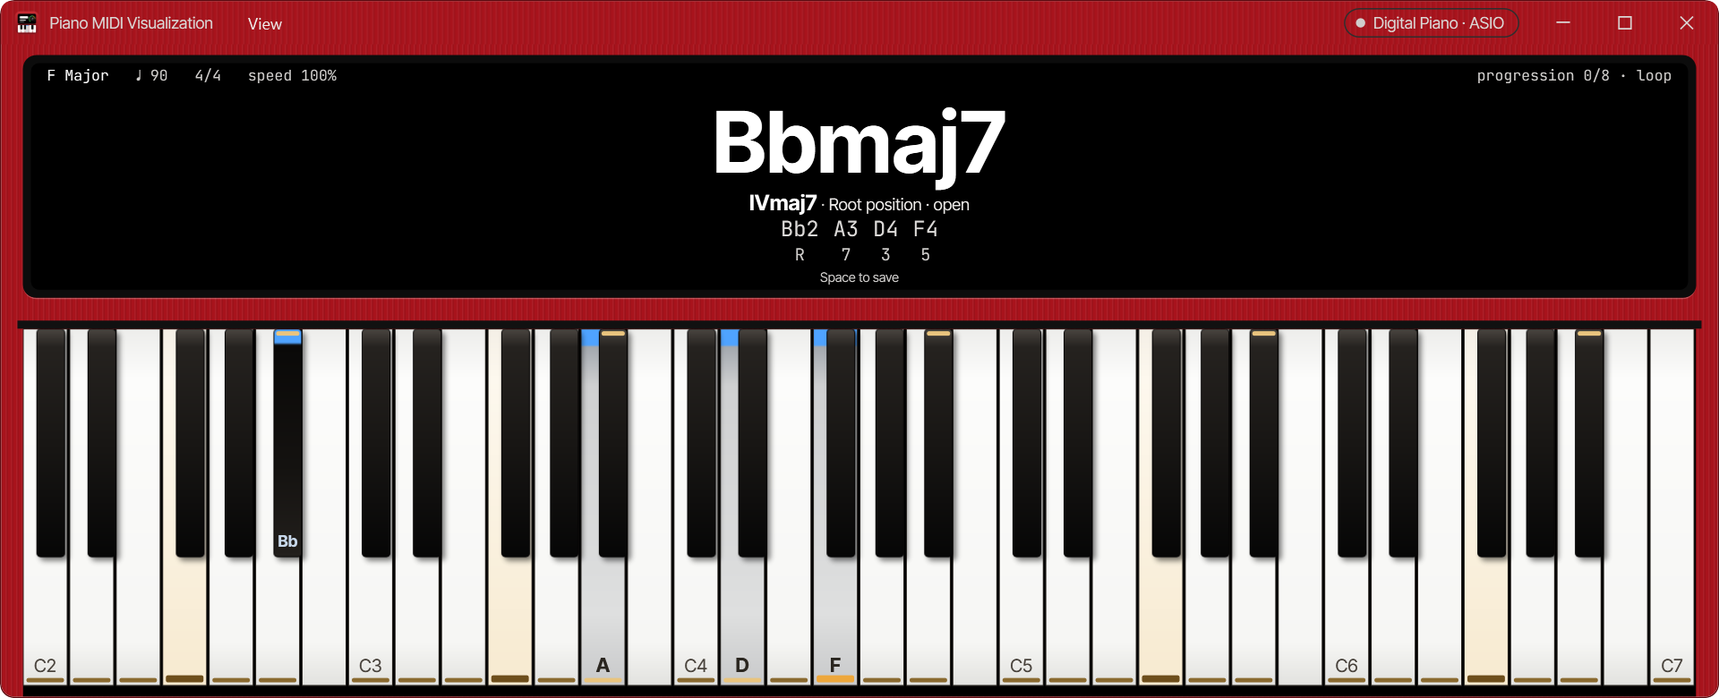
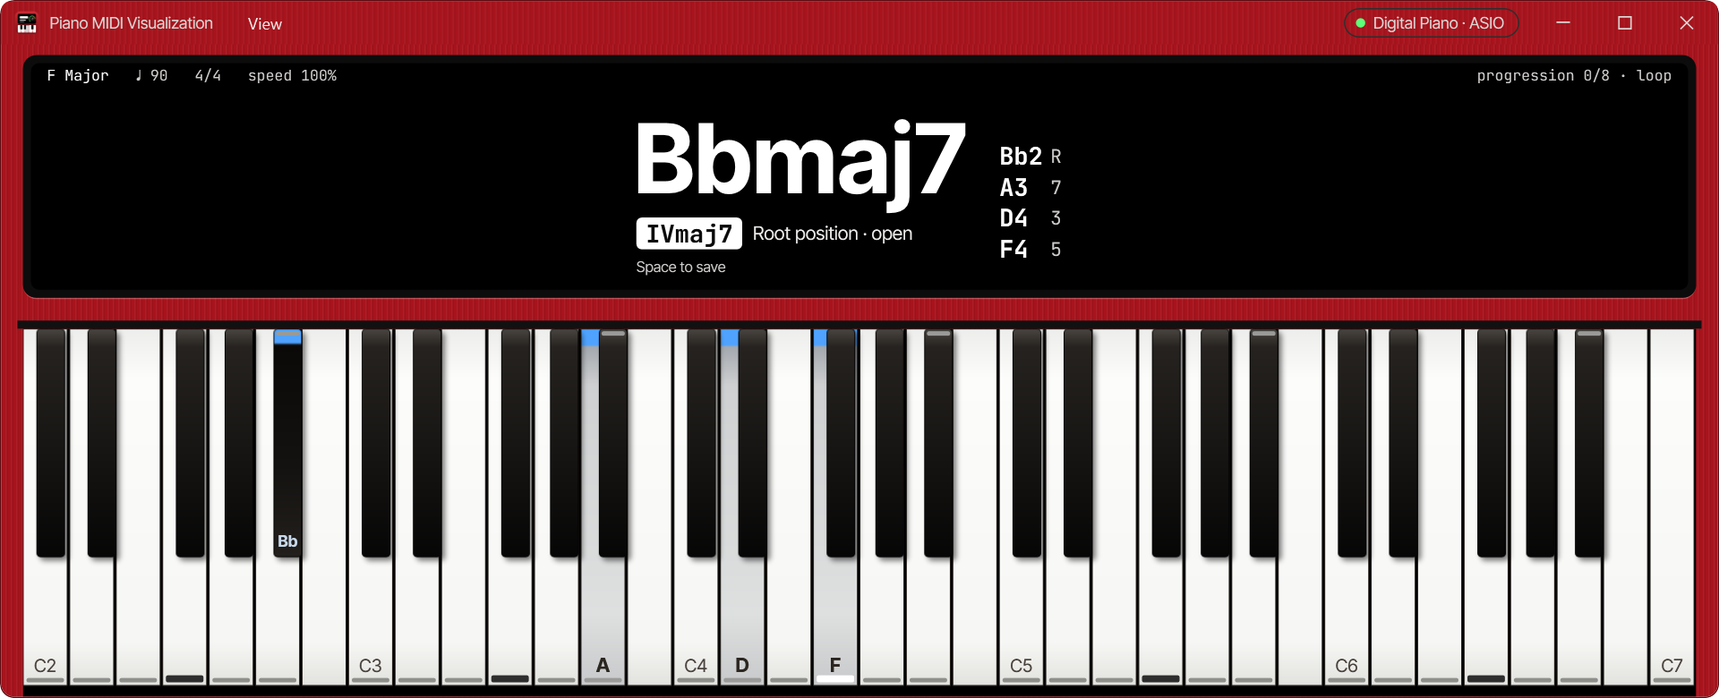
Match the K comp in the readout, circle and keys: no amber on the keys
- Keys are black and white only: in-key and tonic roles keep their lips and edges, now in
  neutral greys (the tonic's lip near-black and thicker), with no tinted keytops.
- The circle follows the comp: a white selected wedge with ink, grey related keys and a
  white root outline.
- The readout follows the comp: the numeral in a white pill, the held notes listed beside
  the chord name, four to a column so the height never changes.
- The 7ths soft key is outlined in white while on, and the status chip's dot is K's green
  status LED.

diff --git a/piano/src/PianoMidiVisualizationApp/MainWindow.xaml b/piano/src/PianoMidiVisualizationApp/MainWindow.xaml
@@ -508,69 +508,74 @@
                          chord name's top. -->
                     <Viewbox Grid.Column="1" Stretch="Uniform" StretchDirection="DownOnly"
                              VerticalAlignment="Center" HorizontalAlignment="Center" Margin="24,12">
-                    <StackPanel>
-                        <!-- Line boxes are trimmed to pay for the voicing line: the stack has to fit
-                             the 159px row at 900x420, and the 140px MinHeight row an open recorder,
-                             log or chat squeezes it to without shaving the chord name. The name's own
-                             85px line leaves ~20px empty above the tallest glyph; at 70 a slash or
-                             parenthesis still clears the voicing text by the ~4px it used to clear
-                             the notes line by. Notes and intervals keep ~1px over their natural line. -->
+                    <!-- K's readout: the chord name with its numeral and voicing under it, and
+                         beside them the held notes as a list, each with its interval. -->
+                    <StackPanel Orientation="Horizontal">
+                    <StackPanel VerticalAlignment="Center">
                         <TextBlock Text="{Binding Analysis.Name}" Style="{StaticResource Style.Readout.Latch}"
-                                   FontSize="{StaticResource Size.Readout.Name}" FontWeight="Black"
+                                   FontSize="{StaticResource Size.Readout.Name}" FontWeight="ExtraBold"
                                    Foreground="{StaticResource Brush.Text.Primary}"
                                    LineStackingStrategy="BlockLineHeight" LineHeight="70"
-                                   MinHeight="70" TextAlignment="Center"/>
-                        <!-- The Roman numeral leads the voicing line: "V65 · 1st inversion · close".
-                             There is no height left for a line of its own, so the numeral shares
-                             this one. The block line height pins it at 19px however large the
-                             numeral's run is, and one TextBlock keeps every run on one baseline.
-                             The runs abut with no whitespace between tags, which would render as
-                             a stray leading space and nudge the voicing off-centre with no key. -->
-                        <TextBlock DataContext="{Binding Analysis}" Style="{StaticResource Style.Readout.Latch}"
-                                   FontSize="{StaticResource Size.Readout.Voicing}"
-                                   Foreground="{StaticResource Brush.Text.Secondary}"
-                                   LineStackingStrategy="BlockLineHeight" LineHeight="19"
-                                   MinHeight="19" Margin="0,3,0,0" TextAlignment="Center"><Run
-                                       Text="{Binding Function, Mode=OneWay}"
-                                       FontSize="{StaticResource Size.Readout.Function}" FontWeight="SemiBold"
-                                       Style="{StaticResource Style.Function.Numeral}"/><Run
+                                   MinHeight="70" MinWidth="180"/>
+                        <!-- The numeral in a white pill, then its kind and the voicing:
+                             "[V65] 1st inversion · drop 2". The row keeps its height empty. -->
+                        <StackPanel Orientation="Horizontal" DataContext="{Binding Analysis}" MinHeight="22"
+                                    Margin="2,4,0,0" Style="{StaticResource Style.Readout.Latch}">
+                            <Border CornerRadius="4" Padding="7,0" Margin="0,0,8,0" VerticalAlignment="Center"
+                                    Background="{StaticResource Brush.Readout.Pill}">
+                                <Border.Style>
+                                    <Style TargetType="Border">
+                                        <Style.Triggers>
+                                            <DataTrigger Binding="{Binding Function}" Value="">
+                                                <Setter Property="Visibility" Value="Collapsed"/>
+                                            </DataTrigger>
+                                        </Style.Triggers>
+                                    </Style>
+                                </Border.Style>
+                                <TextBlock Text="{Binding Function}" FontFamily="{StaticResource Font.Data}"
+                                           FontSize="{StaticResource Size.Readout.Function}" FontWeight="Bold"
+                                           Foreground="{StaticResource Brush.Readout.PillInk}"
+                                           Style="{StaticResource Style.Function.NumeralPill}"/>
+                            </Border>
+                            <TextBlock FontSize="{StaticResource Size.Readout.Voicing}" VerticalAlignment="Center"
+                                       Foreground="{StaticResource Brush.Text.Secondary}"><Run
                                        FontSize="11" Style="{StaticResource Style.Function.Tag}"/><Run
-                                       Style="{StaticResource Style.Function.VoicingSeparator}"/><Run
+                                       Style="{StaticResource Style.Function.TagGap}"/><Run
                                        Text="{Binding Voicing, Mode=OneWay}"/></TextBlock>
-                        <!-- The notes, each with its interval above the root centred under it. One
-                             column per note rather than two padded lines: the lines are set at
-                             different sizes, so padding alone let the intervals drift off their
-                             notes. The MinHeight is the two line boxes, 22 and 18. -->
-                        <ItemsControl ItemsSource="{Binding Analysis.Columns}" Focusable="False"
-                                      Style="{StaticResource Style.Readout.Latch}"
-                                      MinHeight="40" HorizontalAlignment="Center">
-                            <ItemsControl.ItemsPanel>
-                                <ItemsPanelTemplate>
-                                    <StackPanel Orientation="Horizontal"/>
-                                </ItemsPanelTemplate>
-                            </ItemsControl.ItemsPanel>
-                            <ItemsControl.ItemTemplate>
-                                <DataTemplate>
-                                    <StackPanel Margin="6,0">
-                                        <TextBlock Text="{Binding Note}" FontFamily="{StaticResource Font.Data}"
-                                                   FontSize="{StaticResource Size.Readout.Notes}"
-                                                   Foreground="{StaticResource Brush.Text.Tertiary}"
-                                                   MinHeight="22" TextAlignment="Center"/>
-                                        <TextBlock Text="{Binding Interval}" FontFamily="{StaticResource Font.Data}"
-                                                   FontSize="{StaticResource Size.Readout.Intervals}"
-                                                   Foreground="{StaticResource Brush.Text.Muted}"
-                                                   MinHeight="18" TextAlignment="Center"/>
-                                    </StackPanel>
-                                </DataTemplate>
-                            </ItemsControl.ItemTemplate>
-                        </ItemsControl>
+                        </StackPanel>
                         <!-- That the chord was saved ("Saved · 3/8"), or can't be ("Progression
                              full"). How to save it shows only until the first chord is saved. -->
-                        <TextBlock Text="{Binding SaveHint}" FontSize="11" Margin="0,4,0,0"
-                                   Foreground="{StaticResource Brush.Text.Hint}"
-                                   MinHeight="18" TextAlignment="Center"
+                        <TextBlock Text="{Binding SaveHint}" FontSize="11" Margin="2,6,0,0"
+                                   Foreground="{StaticResource Brush.Text.Hint}" MinHeight="16"
                                    Visibility="{Binding Analysis.Name,
                                                 Converter={StaticResource StringToVisibilityConverter}}"/>
+                    </StackPanel>
+                    <!-- The held notes, lowest first, each with its interval above the root.
+                         Four to a column, wrapping into a second for bigger chords, so the
+                         readout's height never changes with the chord. -->
+                    <ItemsControl ItemsSource="{Binding Analysis.Columns}" Focusable="False"
+                                  Style="{StaticResource Style.Readout.Latch}"
+                                  Margin="24,6,0,0" VerticalAlignment="Center" MinWidth="64">
+                        <ItemsControl.ItemsPanel>
+                            <ItemsPanelTemplate>
+                                <WrapPanel Orientation="Vertical" Height="92"/>
+                            </ItemsPanelTemplate>
+                        </ItemsControl.ItemsPanel>
+                        <ItemsControl.ItemTemplate>
+                            <DataTemplate>
+                                <StackPanel Orientation="Horizontal" Height="23" Margin="0,0,16,0">
+                                    <TextBlock Text="{Binding Note}" FontFamily="{StaticResource Font.Data}"
+                                               FontSize="{StaticResource Size.Readout.Notes}" FontWeight="Bold"
+                                               Foreground="{StaticResource Brush.Text.Primary}"
+                                               MinWidth="38" VerticalAlignment="Center"/>
+                                    <TextBlock Text="{Binding Interval}" FontFamily="{StaticResource Font.Data}"
+                                               FontSize="{StaticResource Size.Readout.Intervals}"
+                                               Foreground="{StaticResource Brush.Text.Muted}"
+                                               VerticalAlignment="Center"/>
+                                </StackPanel>
+                            </DataTemplate>
+                        </ItemsControl.ItemTemplate>
+                    </ItemsControl>
                     </StackPanel>
                     </Viewbox>
 

diff --git a/piano/src/PianoMidiVisualizationApp/Themes/Dark.xaml b/piano/src/PianoMidiVisualizationApp/Themes/Dark.xaml
@@ -247,7 +247,9 @@
     <SolidColorBrush x:Key="Brush.Attention.Wash"      Color="{StaticResource Color.Amber.Wash}"/>   <!-- on the stage -->
     <SolidColorBrush x:Key="Brush.Attention.WashHover" Color="{StaticResource Color.Amber.WashHover}"/>
     <SolidColorBrush x:Key="Brush.Stage.Hover"         Color="{StaticResource Color.Lacquer.Hover}"/>
-    <SolidColorBrush x:Key="Brush.Status.Ok"           Color="{StaticResource Color.Ivory.Muted}"/>
+    <!-- The status chip's dot while all is well: K's green status LED, a panel light like the
+         halos', not a "you hit it". -->
+    <SolidColorBrush x:Key="Brush.Status.Ok"           Color="#5DFF7A"/>
     <SolidColorBrush x:Key="Brush.Status.Activity"     Color="{StaticResource Color.Ivory.Key}"/>   <!-- a note played -->
 
     <!-- The title bar's status chip (DataContext: MainViewModel). Never focusable: a focused
@@ -401,10 +403,13 @@
          since it follows what is being played. -->
     <SolidColorBrush x:Key="Brush.Circle.Major"      Color="{StaticResource Color.Lacquer.Raised}"/>
     <SolidColorBrush x:Key="Brush.Circle.Minor"      Color="{StaticResource Color.Lacquer.Deep}"/>
-    <SolidColorBrush x:Key="Brush.Circle.Related"    Color="{StaticResource Color.Amber.Fill}"/>
-    <SolidColorBrush x:Key="Brush.Circle.Selected"   Color="{StaticResource Color.Amber.Deep}"/>
+    <!-- As on the K comp: the selected key is the white wedge with ink, its neighbours a mid
+         grey, the chord's root a white outline. -->
+    <SolidColorBrush x:Key="Brush.Circle.Related"    Color="#555555"/>
+    <SolidColorBrush x:Key="Brush.Circle.Selected"   Color="{StaticResource Color.Ivory.Primary}"/>
+    <SolidColorBrush x:Key="Brush.Circle.SelectedText" Color="{StaticResource Color.Ink}"/>
     <SolidColorBrush x:Key="Brush.Circle.Hover"      Color="{StaticResource Color.Ivory.Muted}"/>
-    <SolidColorBrush x:Key="Brush.Circle.RootMarker" Color="{StaticResource Color.Blue}"/>
+    <SolidColorBrush x:Key="Brush.Circle.RootMarker" Color="{StaticResource Color.Ivory.Primary}"/>
 
     <!-- ================= Grand staff =================
          Lines recede, the clefs and key signature sit a step forward, and the notes you are
@@ -455,12 +460,12 @@
         <GradientStop Color="#F6F6F4" Offset="0.88"/>
         <GradientStop Color="#E2E2DF" Offset="1"/>
     </LinearGradientBrush>
-    <!-- The tonic: a faint amber blush under its thick amber lip, enough to find the key
-         centre from the bench without turning keys yellow. -->
+    <!-- The tonic: plain white like every key; its thick dark front lip marks it. -->
     <LinearGradientBrush x:Key="Brush.Key.White.Tonic" StartPoint="0,0" EndPoint="0,1">
-        <GradientStop Color="#F4EFE6" Offset="0"/>
-        <GradientStop Color="#FDF8EE" Offset="0.14"/>
-        <GradientStop Color="#F7EAD0" Offset="1"/>
+        <GradientStop Color="#EDEDEB" Offset="0"/>
+        <GradientStop Color="{StaticResource Color.Ivory.Key}" Offset="0.14"/>
+        <GradientStop Color="#F6F6F4" Offset="0.88"/>
+        <GradientStop Color="#E2E2DF" Offset="1"/>
     </LinearGradientBrush>
     <SolidColorBrush x:Key="Brush.Key.White.Border" Color="#2A2622"/>
 
@@ -488,10 +493,10 @@
     <!-- The tonic keeps a body colour on black keys too; the other in-key black keys get only
          the edge mark, so a scale doesn't turn half the black keys into coloured slabs. -->
     <LinearGradientBrush x:Key="Brush.Key.Black.Tonic" StartPoint="0,0" EndPoint="0,1">
-        <GradientStop Color="#725829" Offset="0"/>
-        <GradientStop Color="#54401C" Offset="0.08"/>
-        <GradientStop Color="#453418" Offset="0.5"/>
-        <GradientStop Color="#3A2C12" Offset="1"/>
+        <GradientStop Color="#4A4540" Offset="0"/>
+        <GradientStop Color="#25221F" Offset="0.08"/>
+        <GradientStop Color="#181614" Offset="0.5"/>
+        <GradientStop Color="{StaticResource Color.Lacquer.Deep}" Offset="1"/>
     </LinearGradientBrush>
     <SolidColorBrush x:Key="Brush.Key.Black.Border" Color="#050404"/>
 
@@ -499,10 +504,13 @@
          black key, and the front lip of every in-key white key. On ebony or a held key the mark
          is light; on an unheld white key it is a dark amber lip against the wash. The tonic's
          mark is stronger and thicker. -->
-    <SolidColorBrush x:Key="Brush.Key.InKey.Mark"       Color="{StaticResource Color.Amber.Pale}"/>
-    <SolidColorBrush x:Key="Brush.Key.Tonic.Mark"       Color="{StaticResource Color.Amber.Strong}"/>
-    <SolidColorBrush x:Key="Brush.Key.InKey.Mark.Ivory" Color="{StaticResource Color.Amber.Border}"/>
-    <SolidColorBrush x:Key="Brush.Key.Tonic.Mark.Ivory" Color="{StaticResource Color.Amber.Deep}"/>
+    <!-- Neutral, not amber: the keys stay black and white. Light marks on ebony and held keys,
+         dark ones on white; the tonic's mark is the strongest and thickest. The lip on a white
+         key clears 3:1 against it. -->
+    <SolidColorBrush x:Key="Brush.Key.InKey.Mark"       Color="#9A9A98"/>
+    <SolidColorBrush x:Key="Brush.Key.Tonic.Mark"       Color="#FFFFFF"/>
+    <SolidColorBrush x:Key="Brush.Key.InKey.Mark.Ivory" Color="#8E8E8A"/>
+    <SolidColorBrush x:Key="Brush.Key.Tonic.Mark.Ivory" Color="#2E2E2E"/>
 
     <!-- Hint outline and dot, with a deep keyline inside so the outline still separates from
          a light fill (ivory, amber, held blue) whose brightness is close to the magenta's. -->
@@ -599,6 +607,46 @@
             </DataTrigger>
             <DataTrigger Binding="{Binding FunctionKind}" Value="Chromatic">
                 <Setter Property="Text" Value=" chromatic"/>
+            </DataTrigger>
+            <DataTrigger Binding="{Binding Function}" Value="">
+                <Setter Property="Text" Value=""/>
+            </DataTrigger>
+        </Style.Triggers>
+    </Style>
+
+    <!-- K's numeral pill on the readout: a white key with ink. -->
+    <SolidColorBrush x:Key="Brush.Readout.Pill"    Color="{StaticResource Color.Ivory.Primary}"/>
+    <SolidColorBrush x:Key="Brush.Readout.PillInk" Color="{StaticResource Color.Ink}"/>
+
+    <!-- The numeral in the pill (DataContext: ChordAnalysis), with the same tooltips as the run. -->
+    <Style x:Key="Style.Function.NumeralPill" TargetType="TextBlock">
+        <Setter Property="ToolTip" Value="Roman numeral in the selected key"/>
+        <Style.Triggers>
+            <DataTrigger Binding="{Binding FunctionKind}" Value="SecondaryDominant">
+                <Setter Property="ToolTip" Value="Secondary dominant: the V or vii° of the chord after the slash"/>
+            </DataTrigger>
+            <DataTrigger Binding="{Binding FunctionKind}" Value="Borrowed">
+                <Setter Property="ToolTip" Value="Borrowed from the parallel major or minor"/>
+            </DataTrigger>
+            <DataTrigger Binding="{Binding FunctionKind}" Value="Chromatic">
+                <Setter Property="ToolTip" Value="Chromatic: outside the key and its parallel major and minor"/>
+            </DataTrigger>
+        </Style.Triggers>
+    </Style>
+
+    <!-- Between the kind word and the voicing, only while there is a kind word. -->
+    <Style x:Key="Style.Function.TagGap" TargetType="Run">
+        <Setter Property="Text" Value=""/>
+        <Setter Property="Foreground" Value="{StaticResource Brush.Text.Faint}"/>
+        <Style.Triggers>
+            <DataTrigger Binding="{Binding FunctionKind}" Value="SecondaryDominant">
+                <Setter Property="Text" Value=" · "/>
+            </DataTrigger>
+            <DataTrigger Binding="{Binding FunctionKind}" Value="Borrowed">
+                <Setter Property="Text" Value=" · "/>
+            </DataTrigger>
+            <DataTrigger Binding="{Binding FunctionKind}" Value="Chromatic">
+                <Setter Property="Text" Value=" · "/>
             </DataTrigger>
             <DataTrigger Binding="{Binding Function}" Value="">
                 <Setter Property="Text" Value=""/>
@@ -721,6 +769,7 @@
          while off, a white one with ink while on. -->
     <Style x:Key="Style.SoftKeyToggle" TargetType="ToggleButton">
         <Setter Property="Focusable" Value="False"/>
+        <Setter Property="BorderBrush" Value="Transparent"/>
         <Setter Property="Cursor" Value="Hand"/>
         <Setter Property="MinWidth" Value="44"/>
         <Setter Property="Padding" Value="8,0"/>
@@ -733,6 +782,7 @@
                 <ControlTemplate TargetType="ToggleButton">
                     <StackPanel Background="Transparent">
                         <Border Height="22" Background="{TemplateBinding Background}" Padding="{TemplateBinding Padding}"
+                                BorderBrush="{TemplateBinding BorderBrush}" BorderThickness="1.5"
                                 CornerRadius="4" SnapsToDevicePixels="True">
                             <ContentPresenter HorizontalAlignment="Center" VerticalAlignment="Center"/>
                         </Border>
@@ -743,8 +793,8 @@
                             <Setter Property="Background" Value="{StaticResource Brush.ChordTile.Hover}"/>
                         </Trigger>
                         <Trigger Property="IsChecked" Value="True">
-                            <Setter Property="Background" Value="{StaticResource Brush.On}"/>
-                            <Setter Property="Foreground" Value="{StaticResource Brush.On.Ink}"/>
+                            <Setter Property="BorderBrush" Value="{StaticResource Brush.Text.Primary}"/>
+                            <Setter Property="Foreground" Value="{StaticResource Brush.Text.Primary}"/>
                         </Trigger>
                         <Trigger Property="IsPressed" Value="True">
                             <Setter TargetName="Key" Property="RenderTransform">

diff --git a/piano/src/PianoMidiVisualizationApp/Views/CircleOfFifthsControl.xaml.cs b/piano/src/PianoMidiVisualizationApp/Views/CircleOfFifthsControl.xaml.cs
@@ -238,7 +238,7 @@ public partial class CircleOfFifthsControl : UserControl
         foreach (var name in segment.Names)
         {
             name.SetResourceReference(TextBlock.ForegroundProperty,
-                isSelected ? "Brush.Text.Primary" : isMajor ? "Brush.Text.Secondary" : "Brush.Text.Tertiary");
+                isSelected ? "Brush.Circle.SelectedText" : isMajor ? "Brush.Text.Secondary" : "Brush.Text.Tertiary");
             name.FontWeight = isSelected ? FontWeights.Bold : isMajor ? FontWeights.SemiBold : FontWeights.Normal;
         }
     }

diff --git a/piano/DESIGN.md b/piano/DESIGN.md
@@ -143,7 +143,7 @@ Token slugs above map to `Color.*` keys, several under names kept from piano cha
 
 The window is a piece of hardware with rounded corners. The chrome (title bar, sidebar, toolbar, status bar) is one sheet of brushed scarlet aluminium with white legends. Set into it is a black OLED window that holds everything you read: a status line, the grand staff, the chord name, the circle of fifths and the chord strip, whose tiles are soft keys with a physical key under each one. Beside the window, the front panel: two halo knobs for volume and click, twelve rubber keys with LEDs, and the progression's eight LEDs. Below, behind a felt strip, sit real white and black keys.
 
-The OLED is where the eye goes: true black, white type, amber for the key you're in, blue for what you're playing. The panel around it is loud in colour but quiet in content, with legends and controls only. Controls are black rubber keys on the red, and a switched-on control is a white key with black ink.
+The OLED is where the eye goes: true black and white, as on the comp, with blue only where you are playing (a held key's lit edge, your recorded notes) and amber only for what is waiting on you. The panel around it is loud in colour but quiet in content, with legends and controls only. Controls are black rubber keys on the red, and a switched-on control is a white key with black ink.
 
 Density stays instrument-tight: 12px body, 22px tiles, 3px corners, a 900x420 minimum window where every row is budgeted, and the readout and knobs shrink rather than clip when the window is short.
 
@@ -154,7 +154,8 @@ Density stays instrument-tight: 12px body, 22px tiles, 3px corners, a 900x420 mi
 - A front panel of knobs and LED keys that are shortcuts to things the toolbar also does.
 - White legends that clear 4.5:1 on the scarlet, and so clear it easily on black.
 - On means white: a lit toggle, the primary action and the played chord tile are white with black ink.
-- Every other hue keeps one job (amber key, blue playing, magenta asking, teal/violet hands, green hit, red miss/record); the halo knobs are the one place a green-to-red level scale appears.
+- The keys and the circle are black, white and grey: the key centre is shown by shape and tone (the white wedge, the tonic's thick dark lip), never by a tint.
+- Every other hue keeps one job (blue playing, amber waiting on you, magenta asking, teal/violet hands, green hit, red miss/record); the panel's lights (the halo knobs' green-to-red levels and the green status LED) are the one exception, as hardware lights.
 
 ## Colors
 
@@ -165,7 +166,7 @@ A scarlet panel, a black display, white legends, one amber, and the single-job s
 - **OLED Black** (`oled-black`): the display. The readout window, the settings drawer, cards laid over the stage, the keyboard's backing.
 
 ### Secondary
-- **Key-Centre Amber** (`amber` family): the selected key and whatever is waiting on you, unchanged from piano character. The tonic is a full amber keytop; in-key white keys take a warm wash and an amber front lip; the circle's selected key is a Deep Amber wedge; the status chip and first-run step go amber while something isn't ready.
+- **Attention Amber** (`amber` family): whatever is waiting on you: the status chip and the first-run step while something isn't ready, the save key's LED while there is a chord to save. Not on the keys or the circle any more: K shows the key centre in black and white.
 - **Held-Key Blue** (`held-blue`): you are playing. The back edge of a held key, the circle's chord-root outline, your recorded notes, a learned piano control firing.
 - **Asking Magenta** (`target-magenta`): the app asking for a key: hint outlines and dots, the hovered chord tile's outline, the chord wait mode holds for.
 
@@ -262,22 +263,22 @@ A `Border` in the stage grid behind the readout and chord strip: Bezel fill, 6px
 A `RangeBase` drawn in code: a 104px recess, 15 level LEDs on a 270° sweep from the bottom left, and a black cap whose white pointer follows the value. LEDs light from the start up to the value, the first nine green, the next three amber, the last three red. Drag up or down (200 DIPs is the full range) or scroll (5% a notch). Never focusable, so Space stays "save chord"; the sliders in Settings set the same values from the keyboard. Two instances beside the OLED: **VOLUME** (`Settings.Volume`) and **CLICK** (`Settings.MetronomeVolume`), each with a bold legend and its value as a percentage below.
 
 ### Keyboard (signature)
-Piano character's ivory keytops and beveled ebony sharps with its amber key-centre roles and edge marks, unchanged except for the held state: the key shades down and lights a blue back edge. Hints are magenta outlines and dots with a deep keyline. A black felt strip runs above the keys across the panel (hidden in song practice).
+Neutral white keytops and beveled ebony sharps. No key is ever tinted: an in-key white key carries a thin mid-grey front lip (#8E8E8A, 3.3:1 on the white), the tonic a thicker near-black one (#2E2E2E); in-key and tonic black keys carry a light grey or white top edge. A held key shades down and lights a blue back edge. Hints are magenta outlines and dots with a deep keyline. A black felt strip runs above the keys across the panel (hidden in song practice).
 
 ### Front Panel Keys (signature, `Style.PanelKey`)
 Twelve 52x34 black rubber keys in a 4x3 grid under the knobs, in K's order: key ◂, key ▸ (a step down or up the circle of fifths), scale (the next scale on the same tonic), mute (out-of-key), metro, tap, − and + (tempo), rec, play and loop (the selected take), save. Each has a 2px black skirt, a lit top edge, an LED bar set into its top (`Style.PanelLed`) and a lowercase legend under it (`Style.PanelLegend`). An LED lights white for a state that is on (mute, metronome, playing, looping), red while recording is armed, and amber on save while there is a chord to save. Under the grid, PROGRESSION and eight LEDs lit for each saved chord. Never focusable; every key does something the toolbar, a shortcut or a menu also does.
 
 ### Diatonic Chord Strip (signature)
-Soft keys: each tile is a 22px black rubber label on the OLED's bottom edge, Legend Tertiary text with a white SemiBold numeral, and under it, 18px lower and past the bezel, a 16px physical key (`Style.SoftKeyCap`) that dips 1px when pressed; the whole column is one button. The played tile's label turns white with Ink for both name and numeral (`Brush.ChordTile.PlayedInk`). A hovered tile takes a magenta outline. The 7ths switch is a soft key too (`Style.SoftKeyToggle`), white with Ink while on. Never focusable.
+Soft keys: each tile is a 22px black rubber label on the OLED's bottom edge, Legend Tertiary text with a white SemiBold numeral, and under it, 18px lower and past the bezel, a 16px physical key (`Style.SoftKeyCap`) that dips 1px when pressed; the whole column is one button. The played tile's label turns white with Ink for both name and numeral (`Brush.ChordTile.PlayedInk`). A hovered tile takes a magenta outline. The 7ths switch is a soft key too (`Style.SoftKeyToggle`), outlined in white while on, as on the comp. Never focusable.
 
 ### App Icon
 `app.ico` (16 to 256px) and `app.png` (the title bar's 18px image): the panel in miniature. A scarlet tile with a black OLED window showing a white chord bar and a lit halo knob, over real white and black keys with one held key lit blue. Drawn by script, with the grain and the small text lines dropped below 32px.
 
 ### Chord Readout, Grand Staff, Circle of Fifths
-As in piano character, now white on the OLED: chord name in Inter Tight ExtraBold, numeral and voicing line, notes and intervals in columns, the save line. The staff draws Faint lines, Tertiary clefs and white notes. The circle's major ring is Rubber Raised and its minor ring Well Deep, with a Deep Amber selected wedge, Amber Fill related keys and a blue root outline.
+Laid out as on the K comp, white on the OLED. The chord name in Inter Tight ExtraBold; under it the Roman numeral in a white pill with ink (JetBrains Mono Bold, `Brush.Readout.Pill`, `Style.Function.NumeralPill`), the kind word and the voicing; then the save line. Beside them the held notes as a list, each note in JetBrains Mono Bold with its interval in Muted after it, four to a column and wrapping into a second for bigger chords, so the readout's height never changes with the chord. The staff draws Faint lines, Tertiary clefs and white notes. The circle's major ring is Rubber Raised and its minor ring Well Deep, with the selected key as a white wedge with ink (`Brush.Circle.SelectedText`), its related keys mid grey (#555) and the chord's root as a white outline.
 
 ### Chips, Menus, Inputs, Scrollbars
-As in piano character, recoloured by the tokens: the status chip is a pill on the panel that turns amber when something isn't ready; menus and popups are Rubber Raised with a Rubber Line border; inputs are Rubber Raised with a Rubber Line outline; scroll thumbs are Legend Faint.
+As in piano character, recoloured by the tokens: the status chip is a pill on the panel whose dot is K's green status LED while all is well and that turns amber when something isn't ready; menus and popups are Rubber Raised with a Rubber Line border; inputs are Rubber Raised with a Rubber Line outline; scroll thumbs are Legend Faint.
 
 ## Do's and Don'ts
 

diff --git a/piano/README.md b/piano/README.md
@@ -34,9 +34,9 @@ suggests where the saved progression could go next.*
   it are the inversion, the voicing (close, open, shell or drop 2), each note, and its interval
   above the root.
 - **Keys and scales**: pick a key centre and one of 12 scales: major, natural, harmonic and
-  melodic minor, the five other modes, major and minor pentatonic, and blues. The keyboard shows
-  the key in amber: a wash on in-key keys, the tonic in full, and a small mark on in-key black
-  keys and on in-key keys you hold, so it doesn't rest on colour alone. Note names switch between sharps
+  melodic minor, the five other modes, major and minor pentatonic, and blues. The keyboard marks
+  the key with a thin lip along the front of every in-key key and a thick dark one on the tonic,
+  so the keys themselves stay black and white. Note names switch between sharps
   and flats to suit the key.
 - **Mute out-of-key**: out-of-key notes go silent but still light up and still count toward the
   chord name, so you can hear the scale and see your mistakes.
